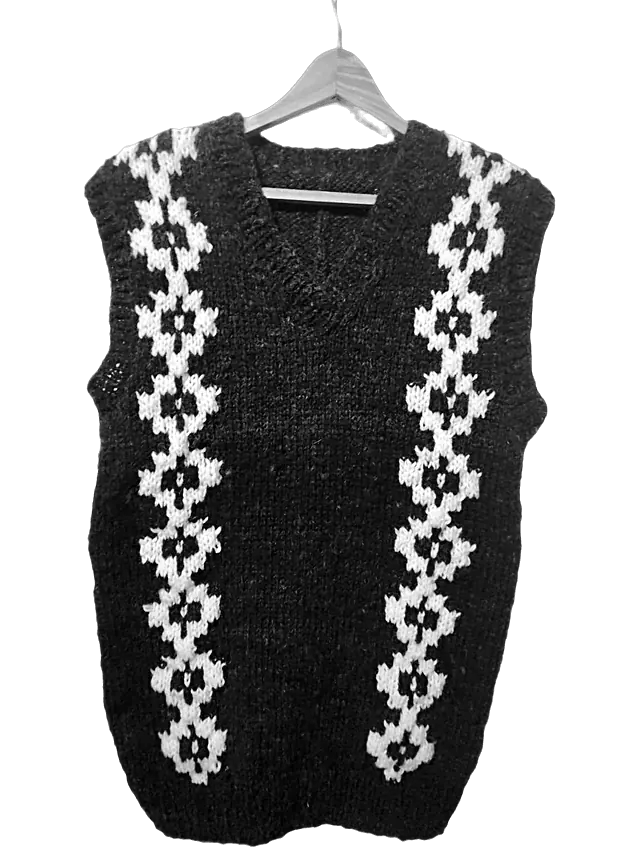
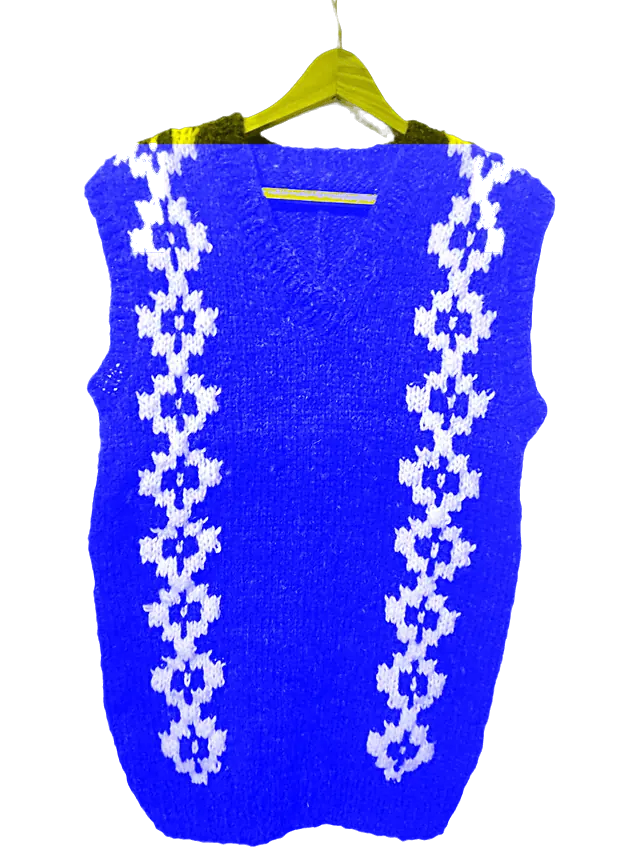
fix(disenar): colores vivos, los de la lana de verdad
Los tonos salian apagados y en las lanas oscuras el dibujo desaparecia.
Eran dos cosas, y las dos de fondo:

1. La paleta estaba elegida a ojo. Ahora sale de medir las piezas del
   catalogo: son los colores naturales de la lana.

2. El color se mezclaba con blanco y negro. Mezclar lava la lana —todos
   los tonos terminan en el mismo gris— y comprime el contraste, por eso
   en negro no se veian ni las trenzas ni la greca. Ahora el color se
   MULTIPLICA: el matiz y la saturacion se mantienen en todo el rango y
   el contraste del tejido queda igual para cualquier color.

El ajuste va por la mediana y no por el promedio: en una pieza de dos
colores (guardapampa, rayado) el promedio lo corre la greca y el fondo
salia mas oscuro que la lana elegida.

Y la percha ya no se tiñe —no es de lana, salia amarilla—: va marcada en
el canal azul del asset y se pinta de madera. Los brazos que se abrian
sobre los hombros, que quedaban como alas, se borran.

diff --git a/disenar/index.html b/disenar/index.html
@@ -321,12 +321,14 @@
   var PHONE = '543456268401';
 
   // Los colores son los naturales de la lana, sin teñir.
+  // Los tonos salen de medir las piezas del catálogo, no de elegirlos a ojo:
+  // son los naturales de la lana, sin teñir.
   var LANAS = [
-    { id:'marron-claro',  nombre:'marrón claro',  hex:'#8e7050' },
-    { id:'marron-oscuro', nombre:'marrón oscuro', hex:'#4a3625' },
-    { id:'crudo',         nombre:'crudo',         hex:'#d9cbb2' },
-    { id:'gris',          nombre:'gris',          hex:'#8a8479' },
-    { id:'negro',         nombre:'negro',         hex:'#2c2823' }
+    { id:'marron-claro',  nombre:'marrón claro',  hex:'#8a6144' },
+    { id:'marron-oscuro', nombre:'marrón oscuro', hex:'#5c4134' },
+    { id:'crudo',         nombre:'crudo',         hex:'#cfc3ad' },
+    { id:'gris',          nombre:'gris',          hex:'#71685f' },
+    { id:'negro',         nombre:'negro',         hex:'#332e2a' }
   ];
   var DIBUJOS = [
     { id:'liso',        nombre:'liso' },
@@ -347,34 +349,38 @@
   var estado = { dibujo: DIBUJOS[0], lana: LANAS[1], cuello: CUELLOS[0] };
 
   // --- El tono de la lana -------------------------------------------------
-  // Las fotos se guardan en gris normalizado; acá se les pone el color. Misma
-  // cuenta que en tools/piezas.py: una rampa de la sombra al brillo de esa
-  // lana, ceñida a propósito — si va de negro a blanco, todos los colores
-  // terminan del mismo gris.
-  var NEGRO = [16, 11, 7], BLANCO = [250, 244, 232];
+  // Las fotos se guardan en gris normalizado; acá se les pone el color.
+  //
+  // El color NO se mezcla con blanco y negro: se multiplica. Mezclar lava la
+  // lana —todos los tonos terminan en el mismo gris apagado— y además comprime
+  // el contraste, con lo que en las lanas oscuras el dibujo desaparecía.
+  // Multiplicando, el matiz y la saturación se mantienen en todo el rango, y
+  // el contraste del tejido queda igual para cualquier color.
+  //
+  // La pendiente se calcula para que el tono medio de la foto dé exactamente
+  // el color elegido. Los brillos suman un poco de luz cálida: es el reflejo
+  // sobre la lana, lo que hace que se lea el relieve del punto.
+  var LUZ = [200, 188, 160];
+  var MADERA = [186, 156, 116];   // la percha no es de lana: no se tiñe
 
   function aRgb(hex){
     return [parseInt(hex.slice(1,3),16), parseInt(hex.slice(3,5),16), parseInt(hex.slice(5,7),16)];
   }
-  function tabla(hex, media){
-    var c = aRgb(hex), sombra = [], brillo = [], t = [], i;
-    for (i = 0; i < 3; i++) {
-      sombra[i] = c[i] + (NEGRO[i] - c[i]) * 0.55;
-      brillo[i] = c[i] + (BLANCO[i] - c[i]) * 0.45;
-      t[i] = (c[i] - sombra[i]) / Math.max(brillo[i] - sombra[i], 1e-6);
-    }
-    // Dónde cae el color pedido dentro de su propia rampa. Se lleva la media de
-    // la foto ahí: así el negro sale oscuro y el crudo claro.
-    var objetivo = Math.min(0.92, Math.max(0.08, (t[0] + t[1] + t[2]) / 3));
-    var gamma = (media > 0.02 && media < 0.98) ? Math.log(objetivo) / Math.log(media) : 1;
-    // Acotada: sin tope, en las lanas claras aplasta el contraste y el
-    // guardapampa deja de verse (greca crudo sobre fondo crudo).
-    gamma = Math.min(1.9, Math.max(0.55, gamma));
+  function tabla(hex, media, suave){
+    var c = aRgb(hex);
+    // La pendiente va acotada: en un recorte chico la media se dispara y el
+    // contraste sale brutal, la lana deja de parecer lana y queda ruido.
+    // Acotarla no corre el color: el tono medio sigue dando el color exacto.
+    var pend = Math.min(2.2, Math.max(1.05, 0.80 / Math.max(media, 0.12)));
+    if (suave) pend *= 0.72;
+    var desde = Math.min(0.86, media + 0.32);
     var lut = new Uint8Array(768);
     for (var v = 0; v < 256; v++) {
-      var n = Math.pow(v / 255, gamma);
-      for (var k = 0; k < 3; k++) {
-        lut[v*3 + k] = Math.max(0, Math.min(255, sombra[k] + (brillo[k] - sombra[k]) * n));
+      var n = v / 255;
+      var k = Math.min(2.3, Math.max(0.18, 1 + (n - media) * pend));
+      var luz = Math.pow(Math.max(0, n - desde), 1.3) * (suave ? 0.5 : 1);
+      for (var i = 0; i < 3; i++) {
+        lut[v*3 + i] = Math.max(0, Math.min(255, c[i] * k + LUZ[i] * luz));
       }
     }
     return lut;
@@ -395,12 +401,20 @@
         var x = c.getContext('2d', { willReadFrequently: true });
         x.drawImage(img, 0, 0);
         var datos = x.getImageData(0, 0, c.width, c.height);
-        // La media de la lana (sin lo transparente) es lo que ajusta el tono.
-        var d = datos.data, suma = 0, n = 0;
+        // La MEDIANA de la lana, no el promedio: en una pieza de dos colores
+        // —el guardapampa, el rayado— el promedio lo corre la greca y el fondo
+        // termina más oscuro que la lana que se eligió. La mediana es el color
+        // del fondo, que es lo que la persona está eligiendo.
+        var d = datos.data, hist = new Uint32Array(256), n = 0;
         for (var i = 0; i < d.length; i += 4) {
-          if (d[i+3] > 40) { suma += d[i]; n++; }
+          if (d[i+3] > 40) { hist[d[i]]++; n++; }
         }
-        cache[archivo] = { datos: datos, media: n ? (suma / n) / 255 : 0.5 };
+        var mitad = n / 2, acum = 0, mediana = 128;
+        for (var v = 0; v < 256; v++) {
+          acum += hist[v];
+          if (acum >= mitad) { mediana = v; break; }
+        }
+        cache[archivo] = { datos: datos, media: n ? mediana / 255 : 0.5 };
         listo(cache[archivo]);
       };
       img.onerror = function(){ falla(new Error(archivo)); };
@@ -411,14 +425,17 @@
     return traer.pendientes[archivo];
   }
 
-  function pintar(canvas, foto, hex){
-    var lut = tabla(hex, foto.media);
+  function pintar(canvas, foto, hex, suave){
+    var lut = tabla(hex, foto.media, suave);
+    var lutMadera = tabla('#ba9c74', foto.media, true);
     var origen = foto.datos.data;
     var salida = new ImageData(foto.datos.width, foto.datos.height);
     var d = salida.data;
     for (var i = 0; i < origen.length; i += 4) {
+      // El canal azul marca qué es lana y qué es percha (lo pone tools/piezas.py)
+      var t = origen[i+2] < 128 ? lutMadera : lut;
       var v = origen[i] * 3;
-      d[i] = lut[v]; d[i+1] = lut[v+1]; d[i+2] = lut[v+2];
+      d[i] = t[v]; d[i+1] = t[v+1]; d[i+2] = t[v+2];
       d[i+3] = origen[i+3];
     }
     canvas.width = salida.width;
@@ -531,7 +548,7 @@
     var muestra = (PIEZAS.liso || {}).mini || (PIEZAS.veteado || {}).mini;
     if (muestra) {
       LANAS.forEach(function(l){
-        traer(muestra).then(function(foto){ pintar(caras.lana[l.id], foto, l.hex); })['catch'](function(){});
+        traer(muestra).then(function(foto){ pintar(caras.lana[l.id], foto, l.hex, true); })['catch'](function(){});
       });
     }
 

diff --git a/tools/piezas.py b/tools/piezas.py
@@ -121,6 +121,26 @@ def encuadrar(im, ocupa=0.80, base=0.965):
     pieza no salta. Arriba queda aire para la percha."""
     im = limpiar(im)
     x0, y0, x1, y1 = cuerpo(im)
+
+    # Los brazos de la percha se abren sobre los hombros y quedan como alas.
+    # Se los reconoce por lo que son: madera clara, arriba y a los costados,
+    # afuera del ancho donde vive el tejido. El gancho del medio se queda.
+    a = np.array(im)
+    solido = a[..., 3] > 60
+    lum = a[..., :3].astype(np.float64) @ np.array([0.299, 0.587, 0.114])
+    if solido.any():
+        alto = max(y1 - y0, 1)
+        ancho = max(x1 - x0, 1)
+        franja = np.zeros(solido.shape, bool)
+        franja[y0:y0 + int(alto * 0.16)] = True
+        lados = np.zeros(solido.shape, bool)
+        lados[:, :x0 + int(ancho * 0.17)] = True
+        lados[:, x1 - int(ancho * 0.17):] = True
+        corte = np.percentile(lum[solido], 88)
+        a[franja & lados & solido & (lum > corte), 3] = 0
+    a[:, :max(0, x0 - 2), 3] = 0
+    a[:, min(a.shape[1], x1 + 3):, 3] = 0
+    im = Image.fromarray(a, 'RGBA')
     escala = (ALTO * ocupa) / max(y1 - y0 + 1, 1)
     if (x1 - x0 + 1) * escala > ANCHO * 0.93:
         escala = (ANCHO * 0.93) / (x1 - x0 + 1)
@@ -134,7 +154,11 @@ def encuadrar(im, ocupa=0.80, base=0.965):
 
 
 def a_gris(im):
-    """Luminancia estirada + alfa. El color lo pone el navegador."""
+    """Luminancia estirada + alfa. El color lo pone el navegador.
+
+    El canal azul se usa de marca: 255 es lana, 0 es percha. Sin eso el
+    navegador le aplica el tono de la lana también a la percha y sale amarilla.
+    """
     im = im.filter(ImageFilter.UnsharpMask(radius=2, percent=60, threshold=3))
     a = np.array(im, dtype=np.float64)
     lum = a[..., :3] @ np.array([0.299, 0.587, 0.114])
@@ -144,7 +168,30 @@ def a_gris(im):
         lo, hi = np.percentile(lum[m], 1.5), np.percentile(lum[m], 98.5)
         lum = np.clip((lum - lo) / max(hi - lo, 1.0), 0, 1) * 255
     g = lum.astype(np.uint8)
-    return Image.fromarray(np.dstack([g, g, g, alpha.astype(np.uint8)]), 'RGBA')
+
+    # Qué es percha: lo que está arriba de los hombros, y la barra que asoma
+    # por el escote (centro, bien arriba, y más clara que casi toda la lana).
+    percha = np.zeros(g.shape, bool)
+    solido = m
+    anchos = solido.sum(axis=1)
+    if anchos.max() > 0:
+        filas = np.where(anchos > anchos.max() * 0.5)[0]
+        if len(filas):
+            y0, y1 = filas[0], filas[-1]
+            percha[:y0] = True
+            cols = np.where(solido[y0:y1 + 1].any(axis=0))[0]
+            if len(cols):
+                x0, x1 = cols[0], cols[-1]
+                alto = y1 - y0
+                zona = np.zeros(g.shape, bool)
+                zona[y0:y0 + int(alto * 0.22),
+                     x0 + int((x1 - x0) * 0.30):x0 + int((x1 - x0) * 0.70)] = True
+                if solido.any():
+                    corte = np.percentile(lum[solido], 90)
+                    percha |= zona & solido & (lum > corte)
+
+    azul = np.where(percha, 0, 255).astype(np.uint8)
+    return Image.fromarray(np.dstack([g, g, azul, alpha.astype(np.uint8)]), 'RGBA')
 
 
 def parche(gris, zona):
@@ -187,7 +234,7 @@ def main():
             elegido = candidatos[min(DESEMPATE.get((dibujo, cuello), 0), len(candidatos) - 1)]
             gris = a_gris(encuadrar(bajar(elegido['foto'])))
             arch = '%s-%s.webp' % (dibujo, cuello)
-            gris.save(os.path.join(SALIDA, arch), 'WEBP', quality=76, method=6)
+            gris.save(os.path.join(SALIDA, arch), 'WEBP', quality=76, method=6, lossless=False)
             manifiesto[dibujo][cuello] = arch
             print('%-14s %-8s <- %-22s %d KB' % (
                 dibujo, cuello, nombre, os.path.getsize(os.path.join(SALIDA, arch)) // 1024))
